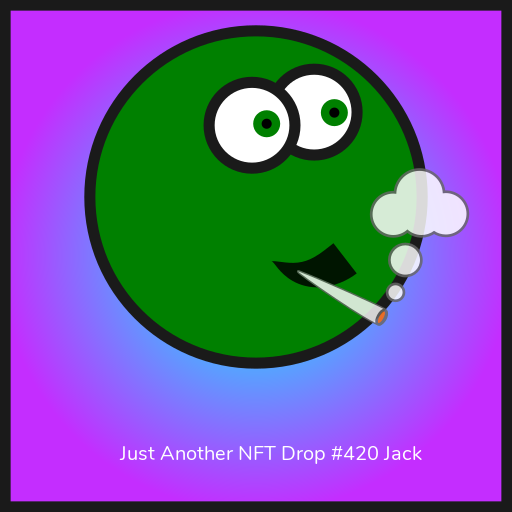
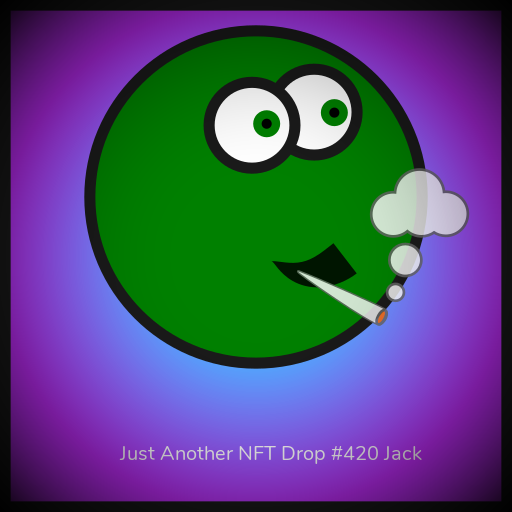
Vignette

diff --git a/jang.js b/jang.js
@@ -51,6 +51,9 @@ const drawImage= async (nftID) => {
   // Add Numeric Attributes With No Image Layers
   const strength = Math.floor(Math.random()*99);
   ctx.attributes.push({ 'trait_type': 'Strength', 'value': strength });
+  // Finish By Adding A Vignette Overlay, Don't Need An Attribute For This
+  const img = await canvas.loadImage(`${dir.input}/vignette.png`);
+  ctx.drawImage(img,0,0,imageSize.width,imageSize.height);
 
   /* End of layers code */
 

diff --git a/README.md b/README.md
@@ -75,6 +75,12 @@ const strength = Math.floor(Math.random()*99);
 ctx.attributes.push({ 'trait_type': 'Strength', 'value': strength });
 ```
 
+Add a image layer or filter but no attribute
+```javascript
+const img = await canvas.loadImage(`${dir.input}/vignette.png`);
+ctx.drawImage(img,0,0,imageSize.width,imageSize.height);
+```
+
 Feel free to add more examples above this line via a pull request.
 
 ## Compression
